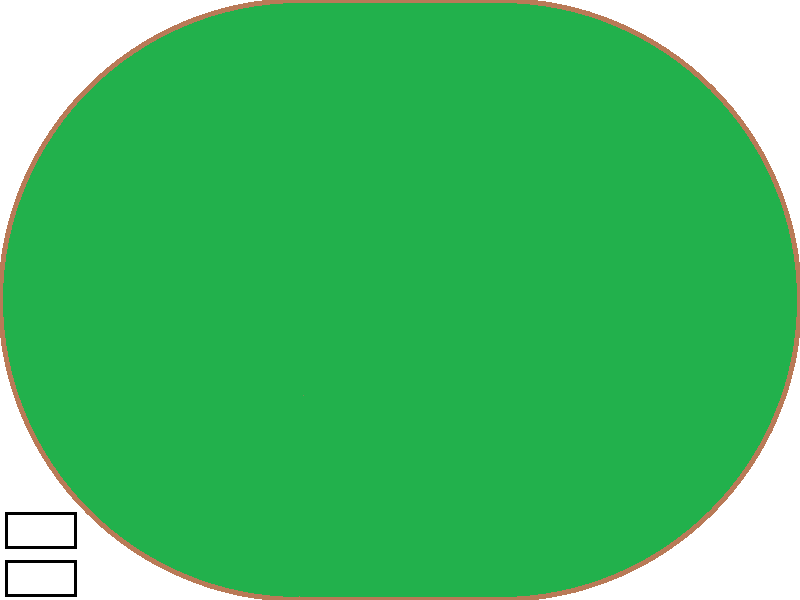
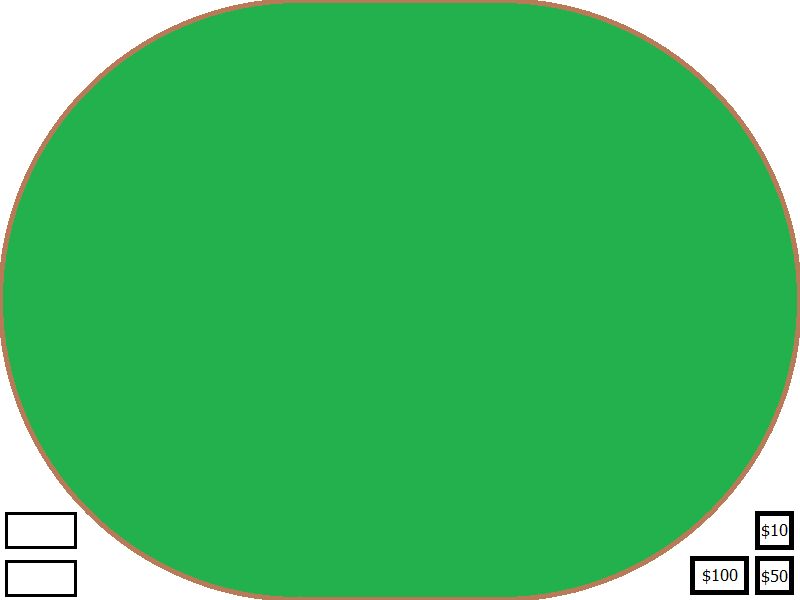
add different chips

Changed region(s): [[0.8438, 0.84, 1.0, 1.0]]

diff --git a/A2project1/project.py b/A2project1/project.py
@@ -85,12 +85,12 @@ Hit = Font1.render('Hit',False,(0,0,0));
 Stand = Font1.render('Stand',False,(0,0,0));
 Quit = Font1.render('Quit',False,(0,0,0));
 Game = Font1.render('Game',False,(0,0,0));
-Bust = Font2.render('Bust',False,(255,0,0));
-Win = Font2.render('win',False,(255,0,0));
-Loss = Font2.render('loss',False,(255,0,0));
-Draw = Font2.render('draw',False,(255,0,0));
+Bust = Font2.render('You Bust',False,(255,0,0));
+Win = Font2.render('You win',False,(255,0,0));
+Loss = Font2.render('You loss',False,(255,0,0));
+Draw = Font2.render("It's a draw",False,(255,0,0));
 BlackJack = Font2.render('Black Jack !',False,(255,0,0));
-Hint1 = Font2.render('Press Mouse to Start Another Game',False,(0,0,0));
+Hint1 = Font2.render('Press Mouse to Start Another Game',True,(0,0,0));
 
 CardImage = InitializeCardDeckImage();
 
@@ -98,11 +98,14 @@ Clock = pygame.time.Clock();
 
 ChooseFlag = 0;
 # 0 for nothing, 1 for upper button pressed, 2 for lower button pressed
-StateFlag = 0; # 0 for startgame, 1 for in game, 2 for dealer, 3 for win,
-#4 for draw, 5 for loss, 6 for bust, 7 for blackjack
-PressMouseCount = 0;
+# 3 for $10, 4 for $50, 5 for $100
+StateFlag = 0;
+# 0 for startgame, 1 for in game, 2 for dealer, 3 for win,
+# 4 for draw, 5 for loss, 6 for bust, 7 for blackjack
+PressMouseCount = 0; # 0 for LeftKeyofMouse is not pressed, 1 for pressed
 DealerCount = 0;
 Money = 1000;
+Bet = 10;
 
 CD = InitializeCardDeck();
 
@@ -123,40 +126,48 @@ while True:
     x, y = pygame.mouse.get_pos();
     PressKey = pygame.key.get_pressed();
     PressMouse = pygame.mouse.get_pressed();
+    xposi = Font2.render('x: '+str(x),False,(0,0,0));
+    yposi = Font2.render('y: '+str(y),False,(0,0,0));
+
+    Screen.blit(xposi,(20,20));
+    Screen.blit(yposi,(20,70));
 
     if PressMouse[0]:
         PressMouseCount = PressMouseCount + 1;
     else:
         PressMouseCount = 0;
-        
+
+    
     if PressMouse[0] and 5 <= x <= 77 and 512 <= y <= 548 and PressMouseCount == 1:
         ChooseFlag = 1;
     elif PressMouse[0] and 5 <= x <= 77 and 560 <= y <= 596 and PressMouseCount == 1:
         ChooseFlag = 2;
+    elif PressMouse[0] and 755 <= x <= 794 and 511 <= y <= 550 and PressMouseCount == 1:
+        ChooseFlag = 3;
+    elif PressMouse[0] and 755 <= x <= 794 and 556 <= y <= 595 and PressMouseCount == 1:
+        ChooseFlag = 4;
+    elif PressMouse[0] and 690 <= x <= 749 and 556<= y <= 595 and PressMouseCount == 1:
+        ChooseFlag = 5;
+    
     if PressMouse[0] and StateFlag == 3 and PressMouseCount == 1:
         StateFlag = 0;
         ChooseFlag = 0;
-        Money = Money + 10;
+        Money = Money + Bet;
     elif PressMouse[0] and StateFlag == 4 and PressMouseCount == 1:
         StateFlag = 0;
         ChooseFlag = 0;
     elif PressMouse[0] and StateFlag == 5 and PressMouseCount == 1:
         StateFlag = 0;
         ChooseFlag = 0;
-        Money = Money - 10;
+        Money = Money - Bet;
     elif PressMouse[0] and StateFlag == 6 and PressMouseCount == 1:
         StateFlag = 0;
         ChooseFlag = 0;
-        Money = Money - 10;
+        Money = Money - Bet;
     elif PressMouse[0] and StateFlag == 7 and PressMouseCount == 1:
         StateFlag = 0;
         ChooseFlag = 0;
-        Money = Money + 20;
-    elif PressMouse[0] and StateFlag == 8 and PressMouseCount == 1:
-        StateFlag = 0;
-        ChooseFlag = 0;
-        Money = Money - 20;
-        
+        Money = Money + 2 * Bet;
 
     if ChooseFlag == 2 and StateFlag == 0:
         ChooseFlag == 0;
@@ -181,6 +192,15 @@ while True:
     elif ChooseFlag == 2 and StateFlag == 1:
         StateFlag = 2;
         ChooseFlag = 0;
+    elif ChooseFlag == 3 and StateFlag == 0:
+        Bet = 10;
+        ChooseFlag = 0;
+    elif ChooseFlag == 4 and StateFlag == 0:
+        Bet = 50;
+        ChooseFlag = 0;
+    elif ChooseFlag == 5 and StateFlag == 0:
+        Bet = 100;
+        ChooseFlag = 0;
 
     # Other Condition;
     if StateFlag == 1:
@@ -190,7 +210,7 @@ while True:
             else:
                 StateFlag = 7;
         elif DCS.checkblackjack() == True:
-            StateFlag = 8;
+            StateFlag = 5;
         if CS.count() > 21:
             StateFlag = 6;
         elif len(CS.data) >= 5:
@@ -212,7 +232,9 @@ while True:
                 else:
                     StateFlag = 3;
         
-    MoneyImage = Font2.render('$'+str(Money),False,(0,0,0))
+    MoneyImage = Font2.render('$'+str(Money),False,(0,0,0));
+    BetImage = Font2.render('$'+str(Bet),False,(0,0,0));
+    
 
     # screen
     if StateFlag == 0:
@@ -221,79 +243,72 @@ while True:
     if StateFlag == 1:
         for i in range(len(CS.data)):
             CardI = CardImage[CS.data[i].hashfunction()];
-            Screen.blit(CardI,(180+100*i,350));
+            Screen.blit(CardI,(180+80*i,350));
         CardBackI = CardImage['Back'];
         Screen.blit(CardBackI,(180,100));
         for i in range(1,len(DCS.data),1):
             CardI = CardImage[DCS.data[i].hashfunction()];
-            Screen.blit(CardI,(180+100*i,100));
+            Screen.blit(CardI,(180+80*i,100));
         Screen.blit(Hit,(31,519));
         Screen.blit(Stand,(18,567));
     elif StateFlag == 2:
         for i in range(len(CS.data)):
             CardI = CardImage[CS.data[i].hashfunction()];
-            Screen.blit(CardI,(180+100*i,350));
+            Screen.blit(CardI,(180+80*i,350));
         CardBackI = CardImage['Back'];
         Screen.blit(CardBackI,(180,100));
         for i in range(1,len(DCS.data),1):
             CardI = CardImage[DCS.data[i].hashfunction()];
-            Screen.blit(CardI,(180+100*i,100));
+            Screen.blit(CardI,(180+80*i,100));
     elif StateFlag == 3:
         for i in range(len(CS.data)):
             CardI = CardImage[CS.data[i].hashfunction()];
-            Screen.blit(CardI,(180+100*i,350));
+            Screen.blit(CardI,(180+80*i,350));
         for i in range(len(DCS.data)):
             CardI = CardImage[DCS.data[i].hashfunction()];
-            Screen.blit(CardI,(180+100*i,100));
-        Screen.blit(Hint1,(100,200));
-        Screen.blit(Win,(350,100));
+            Screen.blit(CardI,(180+80*i,100));
+        Screen.blit(Win,(330,270));
+        Screen.blit(Hint1,(150,200));
     elif StateFlag == 4:
         for i in range(len(CS.data)):
             CardI = CardImage[CS.data[i].hashfunction()];
-            Screen.blit(CardI,(180+100*i,350));
+            Screen.blit(CardI,(180+80*i,350));
         for i in range(len(DCS.data)):
             CardI = CardImage[DCS.data[i].hashfunction()];
-            Screen.blit(CardI,(180+100*i,100));
-        Screen.blit(Hint1,(100,200));
-        Screen.blit(Draw,(350,100));    
+            Screen.blit(CardI,(180+80*i,100));
+        Screen.blit(Draw,(330,270));    
+        Screen.blit(Hint1,(150,200));
     elif StateFlag == 5:
         for i in range(len(CS.data)):
             CardI = CardImage[CS.data[i].hashfunction()];
-            Screen.blit(CardI,(180+100*i,350));
+            Screen.blit(CardI,(180+80*i,350));
         for i in range(len(DCS.data)):
             CardI = CardImage[DCS.data[i].hashfunction()];
-            Screen.blit(CardI,(180+100*i,100));
-        Screen.blit(Hint1,(100,200));
-        Screen.blit(Loss,(350,100));
+            Screen.blit(CardI,(180+80*i,100));
+        Screen.blit(Loss,(330,270));
+        Screen.blit(Hint1,(150,200));
     elif StateFlag == 6:
         for i in range(len(CS.data)):
             CardI = CardImage[CS.data[i].hashfunction()];
-            Screen.blit(CardI,(180+100*i,350));
+            Screen.blit(CardI,(180+80*i,350));
         for i in range(len(DCS.data)):
             CardI = CardImage[DCS.data[i].hashfunction()];
-            Screen.blit(CardI,(180+100*i,100));
-        Screen.blit(Bust,(350,100));
-        Screen.blit(Hint1,(100,200));
+            Screen.blit(CardI,(180+80*i,100));
+        Screen.blit(Bust,(330,270));
+        Screen.blit(Hint1,(150,200));
     elif StateFlag == 7:
         for i in range(len(CS.data)):
             CardI = CardImage[CS.data[i].hashfunction()];
-            Screen.blit(CardI,(180+100*i,350));
+            Screen.blit(CardI,(180+80*i,350));
         for i in range(len(DCS.data)):
             CardI = CardImage[DCS.data[i].hashfunction()];
-            Screen.blit(CardI,(180+100*i,100));
-        Screen.blit(BlackJack,(350,100));
-        Screen.blit(Hint1,(100,200));
-    elif StateFlag == 8:
-        for i in range(len(CS.data)):
-            CardI = CardImage[CS.data[i].hashfunction()];
-            Screen.blit(CardI,(180+100*i,350));
-        for i in range(len(DCS.data)):
-            CardI = CardImage[DCS.data[i].hashfunction()];
-            Screen.blit(CardI,(180+100*i,100));
-        Screen.blit(Loss,(350,100));
-        Screen.blit(Hint1,(100,200));
+            Screen.blit(CardI,(180+80*i,100));
+        Screen.blit(BlackJack,(330,270));
+        Screen.blit(Hint1,(150,200));
 
-    Screen.blit(MoneyImage,(700,30));
+
+    Screen.blit(MoneyImage,(700,10));
+    Screen.blit(BetImage,(700,50));
 
     Clock.tick(20);
 

diff --git a/A2project1/readme.md b/A2project1/readme.md
@@ -61,5 +61,12 @@ def InitializeCardDeckImage(): # return a dictionary with all images of cards
 
 ```
 
+### P.S.
+### Instruction of Packaging the Program
+#### 1.Download and Install PyInstaller
+#### 2.Find the location of PyInstaller.exe
+#### 3.Use cmd, locate the file, 
+
+
 ###### if someone wants to access to Kevin's repository:
 ###### https://github.com/KevinYoung23

diff --git a/Revision Notes/Chapter 16.md b/Revision Notes/Chapter 16.md
@@ -1,0 +1,13 @@
+
+User-define data types
+1. Non-composite
+Definition: does not involve a reference to another type
+
+Enumerated data types:
+define a list of possible values
+Values are enclosed in only these values
+
+Pointer:
+to reference a memory location
+
+2. Composite data types
